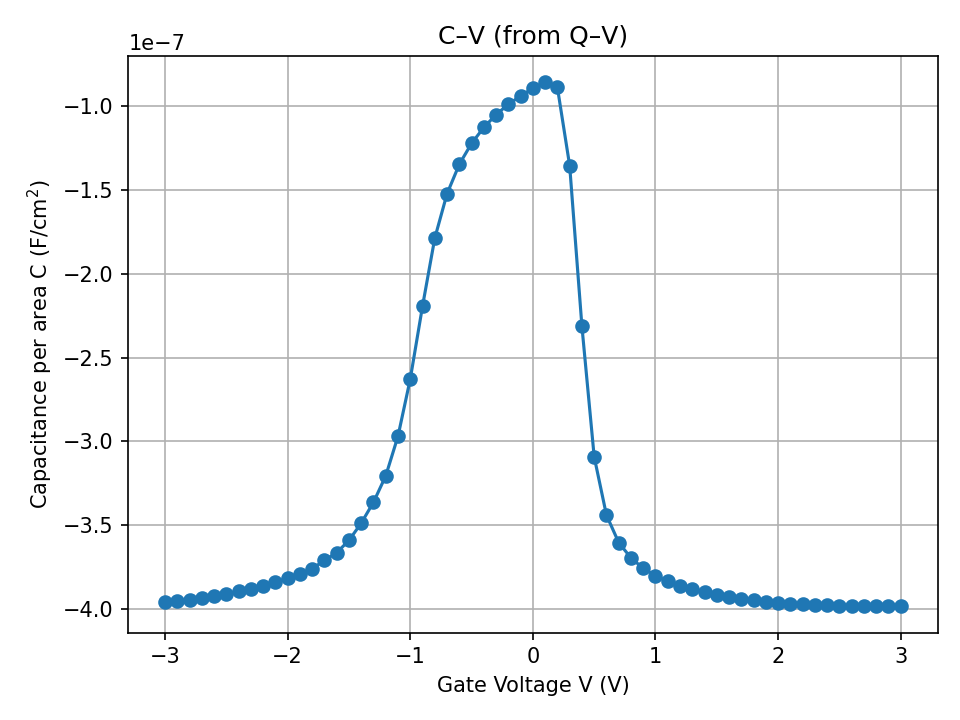
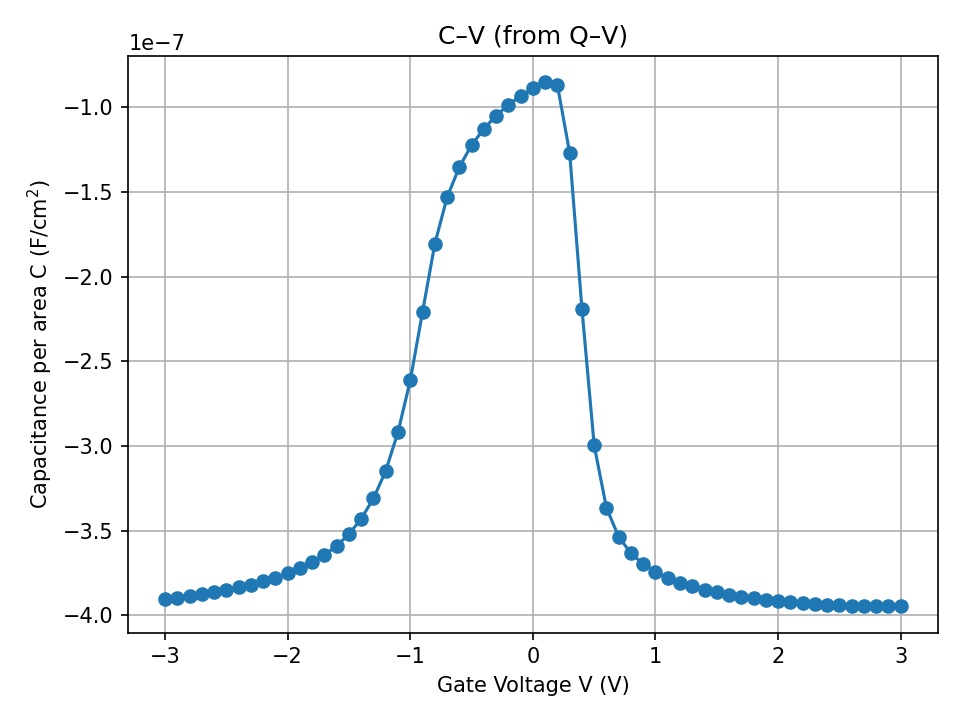
1D MOSFCAP Simulation

diff --git a/Calculate_Vfb/out_cv_qv/vfb_values_pretty.md b/Calculate_Vfb/out_cv_qv/vfb_values_pretty.md
@@ -1,11 +1,11 @@
 | Metric | Value | Unit | Notes |
 |---|---:|:---:|---|
-| Vfb_measured (Qs=0) | -1.028557 | V | Q–V에서 Qs=0 교차(선형보간) |
-| CV inflection voltage | -0.928507 | V | C(V)에서 d²C/dV²=0 |
+| Vfb_measured (Qs=0) | -1.028239 | V | Q–V에서 Qs=0 교차(선형보간) |
+| CV inflection voltage | -0.910521 | V | C(V)에서 d²C/dV²=0 |
 | V where C≈Cox | 0.100000 | V | C가 Cox에 가장 가까운 전압 |
 | Vfb_theory (Phi_ms - Qox/Cox) | -1.011949 | V | 이론식 |
 | Vt_theory (Vfb+2φF+|Qd|/Cox) | 0.206751 | V | 교과서 정의 |
-| Vt_from_QV (psi_s=2φF) | 0.229254 | V | SIGNED psi_s, V≥Vfb에서 교차 |
+| Vt_from_QV (psi_s=2φF) | 0.228070 | V | SIGNED psi_s, V≥Vfb에서 교차 |
 | Qd(2φF) | -1.663e-07 | C/cm^2 | 임계 공핍전하(시트) |
 | phiF(p) | 0.416685 | V | φF(p) = (kT/q) ln(NA/ni) |
 | phiF(n+) | 0.595264 | V | φF(n+) = (kT/q) ln(ND/ni) |
